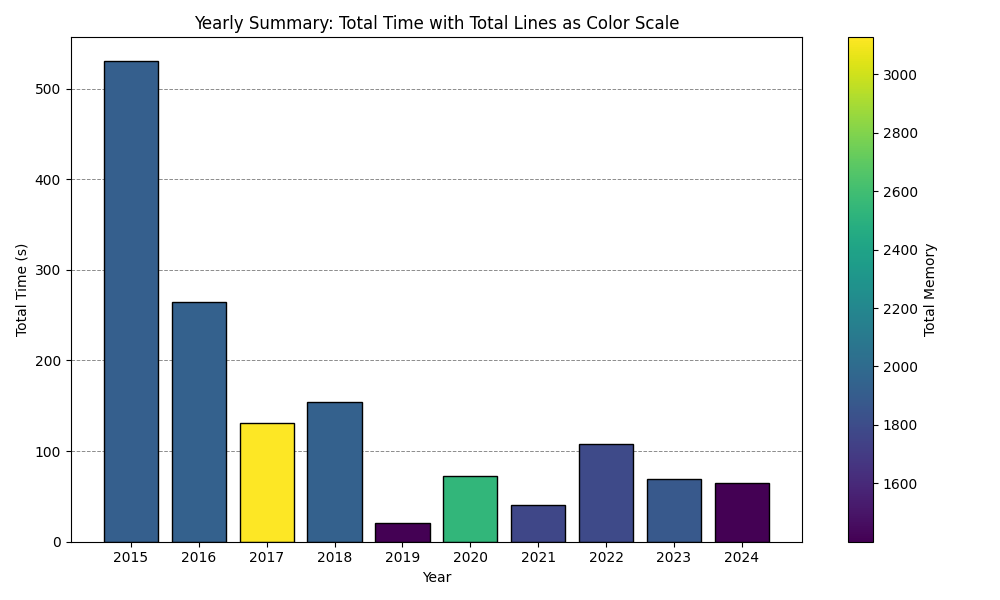
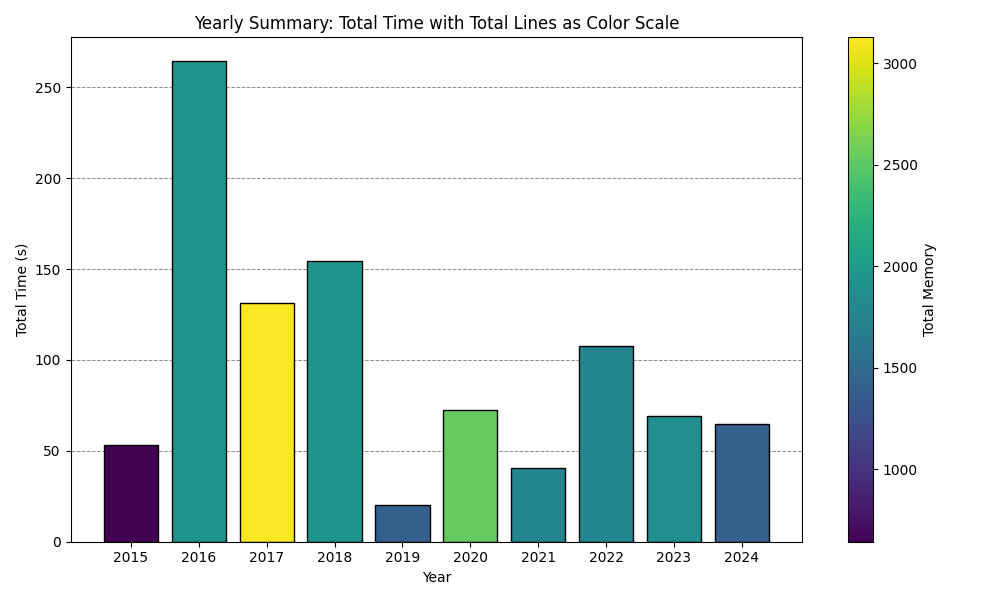
2015 Day 24 (99.9% speed increase, using itertools in python)

diff --git a/2015/24/2015Day24.py b/2015/24/2015Day24.py
@@ -1,0 +1,46 @@
+"""Advent of Code - Day 24, Year 2015
+Solution Started: Apr 5, 2025
+Puzzle Link: https://adventofcode.com/2015/day/24
+Solution by: abbasmoosajee07
+Brief: [Code/Problem Description]
+"""
+
+#!/usr/bin/env python3
+
+import os
+from itertools import combinations
+from math import prod
+
+# Load the input data from the specified file path
+D24_file = "Day24_input.txt"
+D24_file_path = os.path.join(os.path.dirname(os.path.abspath(__file__)), D24_file)
+
+# Read and sort input data into a grid
+with open(D24_file_path) as file:
+    input_data = file.read().strip().split('\n')
+    package_list = [int(num) for num in input_data]
+
+def create_package_combo(packages: list, group_no):
+    packages = [int(x) for x in packages]
+    target_sum = sum(packages) // group_no
+
+    # Find all combinations that sum to the target
+    package_combinations = []
+    for r in range(1, len(packages) + 1):
+        valid_combos = [list(combo) for combo in combinations(packages, r) if sum(combo) == target_sum]
+        if valid_combos:
+            package_combinations.extend(valid_combos)
+            break  # only smallest group size combinations needed first
+
+    # Find minimal length group(s)
+    min_length = min(len(combo) for combo in package_combinations)
+    group_contenders = [combo for combo in package_combinations if len(combo) == min_length]
+
+    quantum_entanglement = min(prod(contender) for contender in group_contenders)
+    return quantum_entanglement
+
+group_3 = create_package_combo(package_list, 3)
+print("Part 1:", group_3)
+
+group_4 = create_package_combo(package_list, 4)
+print("Part 2:", group_4)
